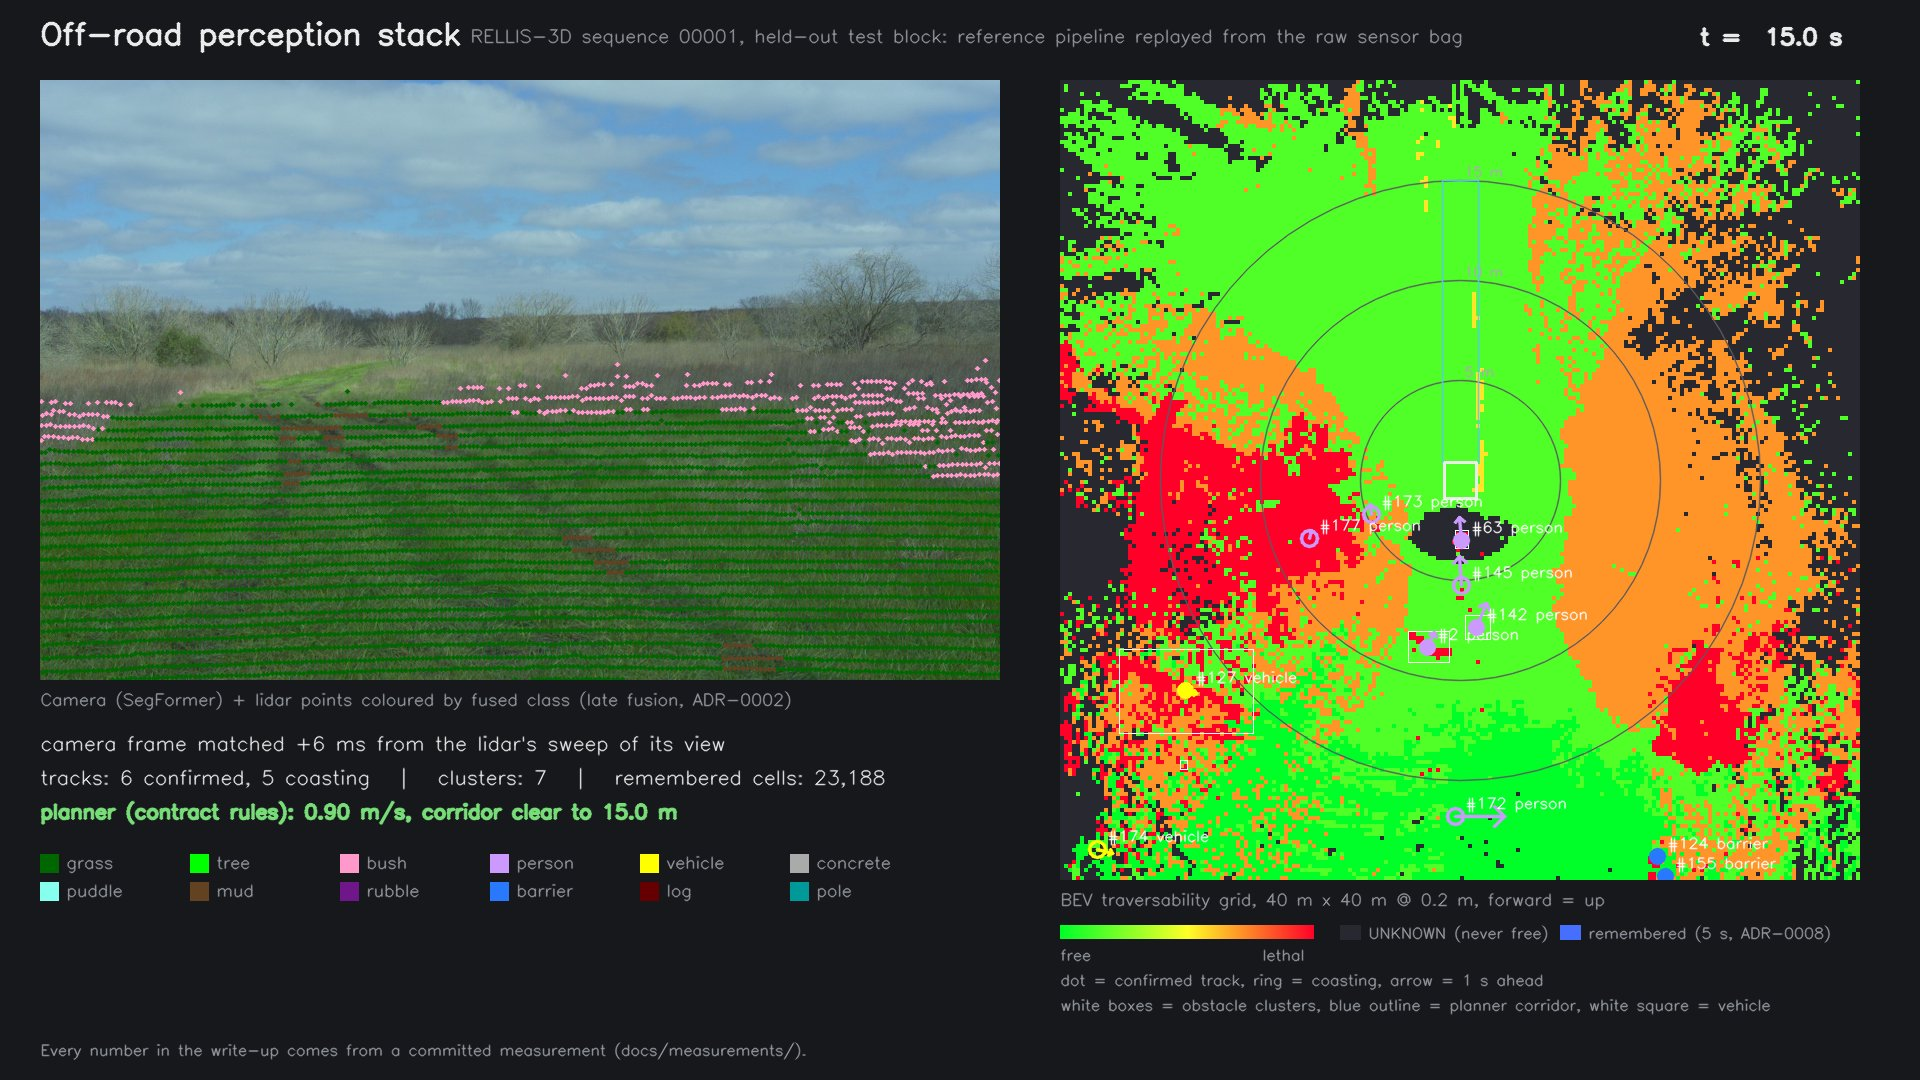
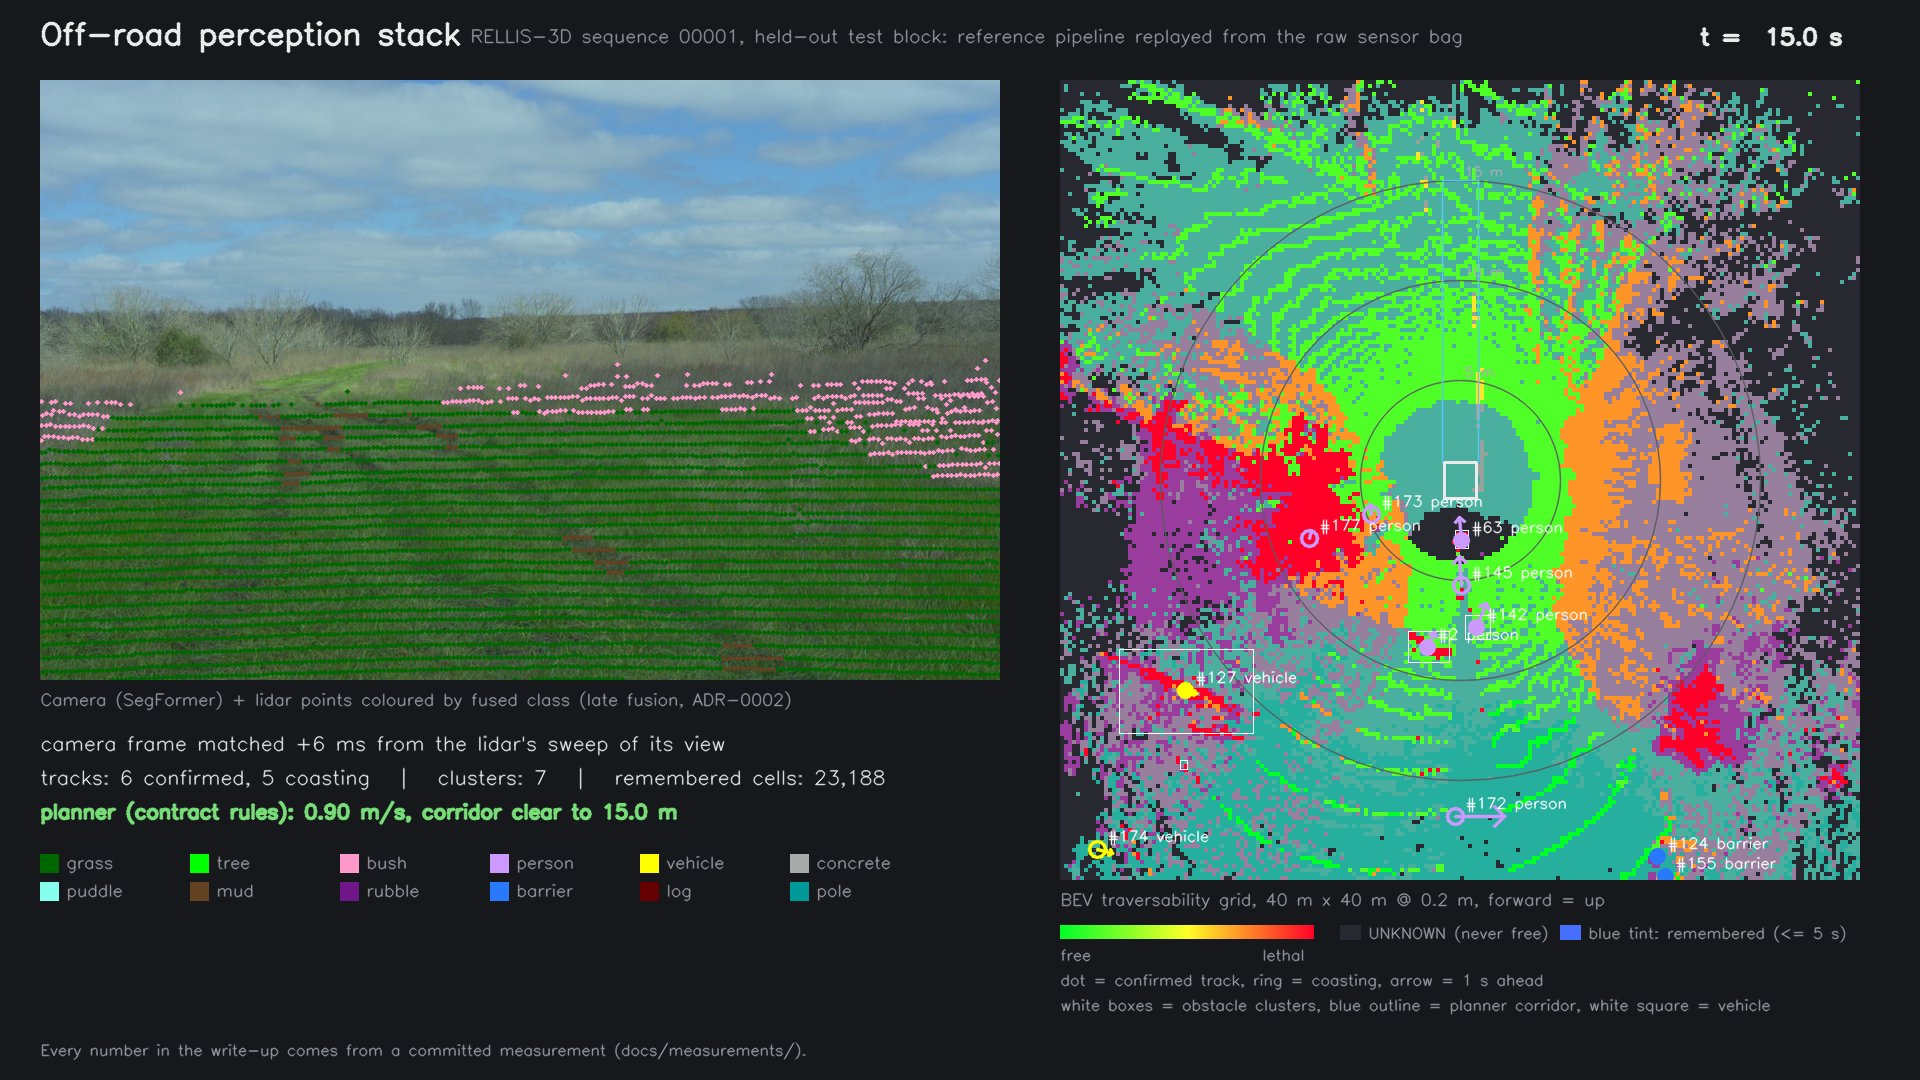
Demo: show remembered cells (flag value 4, not 16); docs say 'value 4', not the ambiguous 'bit 4'

Changed region(s): [[0.5312, 0.0611, 0.9688, 0.825], [0.8438, 0.8556, 0.9688, 0.8861]]

diff --git a/pipeline/render_demo.py b/pipeline/render_demo.py
@@ -15,6 +15,7 @@ import yaml
 from PIL import Image
 
 from pipeline.bev import EGO_BOX
+from pipeline.bev_memory import REMEMBERED
 from pipeline.render_bev import UNKNOWN_RGB, cost_rgb
 from pipeline.rellis import DATA_ROOT
 
@@ -56,8 +57,8 @@ def camera_panel(d, lut):
 
 def bev_panel(d, lut, extent, res):
     rgb = cost_rgb(d["cost"]).astype(np.float32)
-    mem = (d["flags"] & 16) > 0  # contract source_flags bit 4: remembered static evidence (ADR-0008)
-    rgb[mem] = 0.6 * rgb[mem] + 0.4 * np.array([70, 110, 255])
+    mem = d["flags"] == REMEMBERED  # cells filled from grid memory only (ADR-0008)
+    rgb[mem] = 0.45 * rgb[mem] + 0.55 * np.array([70, 110, 255])
     img = cv2.resize(rgb.astype(np.uint8)[::-1], None, fx=SCALE, fy=SCALE, interpolation=cv2.INTER_NEAREST)
     img = np.ascontiguousarray(cv2.rotate(img, cv2.ROTATE_90_COUNTERCLOCKWISE))  # forward (+x) up, left left
 
@@ -107,7 +108,7 @@ def frame(d, lut, extent, res, t0, n_frames_seen):
     cv2.rectangle(img, (1340, 925), (1360, 939), UNKNOWN_RGB, -1)
     text(img, "UNKNOWN (never free)", (1368, 938), 0.5, DIM)
     cv2.rectangle(img, (1560, 925), (1580, 939), (70, 110, 255), -1)
-    text(img, "remembered (5 s, ADR-0008)", (1588, 938), 0.5, DIM)
+    text(img, "blue tint: remembered (<= 5 s)", (1588, 938), 0.5, DIM)
     text(img, "dot = confirmed track, ring = coasting, arrow = 1 s ahead", (1060, 985), 0.5, DIM)
     text(img, "white boxes = obstacle clusters, blue outline = planner corridor, white square = vehicle", (1060, 1010), 0.5, DIM)
 

diff --git a/pipeline/bev_memory.py b/pipeline/bev_memory.py
@@ -7,7 +7,7 @@ Memory is keyed by odom-frame cells, so it stays valid as the machine moves.
 Per sweep: build the current grid -> fill(): unobserved cells take a remembered value no older than
 max_age_s, with confidence decayed linearly by age -> update(): store the current sweep's observed cells,
 except dynamic classes (person, vehicle) which only the current sweep and the tracker may report.
-Grid-level source_flags gains bit 4 when any cell came from memory.
+Cells filled from memory get source_flags = 4 (REMEMBERED; 1 = lidar, 2 = camera).
 """
 from dataclasses import dataclass
 

diff --git a/docs/interface_contract.md b/docs/interface_contract.md
@@ -36,7 +36,7 @@
    never a model's internal class index. The lidar and camera models have different class sets.
 6. **Grid memory (v0.2, ADR-0008):** cells the current sweep cannot see (notably the lidar's ~3 m blind
    zone) may carry *static* evidence up to 5 s older than `header.stamp`, with confidence scaled down by age.
-   `source_flags` bit 4 marks that remembered evidence is present. People and vehicles are never remembered.
+   `source_flags` value 4 (alongside 1 = lidar, 2 = camera) marks remembered evidence. People and vehicles are never remembered.
    Cells with no observation in the last 5 s are UNKNOWN.
 7. The camera covers only a 37.7° forward wedge (ADR-0002). In `MODE_CAMERA_ONLY`, every cell outside
    that wedge is UNKNOWN (255). The mode means a narrow field of view, not just reduced range.
@@ -48,7 +48,7 @@
 
 ## Versioning
 Breaking changes bump the major version and get an ADR. Additive fields bump the minor version.
-- v0.2 (2026-10-18): grid memory semantics and `source_flags` bit 4 (additive, ADR-0008); camera matching
+- v0.2 (2026-10-18): grid memory semantics and `source_flags` value 4 (additive, ADR-0008); camera matching
   rule clarified (match to the lidar's sweep of the camera FOV).
 
 ## Open questions

diff --git a/docs/adr/0008-grid-memory.md b/docs/adr/0008-grid-memory.md
@@ -33,7 +33,7 @@ On the held-out test block, 5 s leaves 0.09 / 0.08 / 0.06 UNKNOWN in the first t
 1.00 / 1.00 / 0.85).
 ## Consequences
 - **Contract v0.2 (additive):** grid cells may carry static evidence up to 5 s older than `header.stamp`.
-  Their confidence is scaled down by age, and the grid-level `source_flags` gets bit 4 when any cell was
+  Their confidence is scaled down by age, and the grid-level `source_flags` gets flag value 4 when any cell was
   remembered. Cells never observed, or observed more than 5 s ago, are still UNKNOWN.
 - **Known hazard, for the week 4 hazard analysis:** after standing still for more than 5 s, the near field
   expires back to UNKNOWN, and something could enter the blind zone unseen. The tracker carries people that

diff --git a/docs/week2_checklist.md b/docs/week2_checklist.md
@@ -17,7 +17,7 @@ the golden reference for the C++ runtime (`docs/measurements/cpp_parity.json`: a
 ## BEV traversability grid
 - [x] Extent/resolution from measured coverage (ADR-0007); 5 s static grid memory for the lidar blind zone (ADR-0008)
 - [x] Grid from fused semantics + cost table + height check; 255 = UNKNOWN; ego filter for self-returns
-- [x] Confidence and `source_flags` per the contract (v0.2 adds bit 4 = remembered)
+- [x] Confidence and `source_flags` per the contract (v0.2 adds flag value 4 = remembered)
 
 ## Clustering + tracking
 - [x] Connected components of obstacle points (+ void points in height-check cells)
